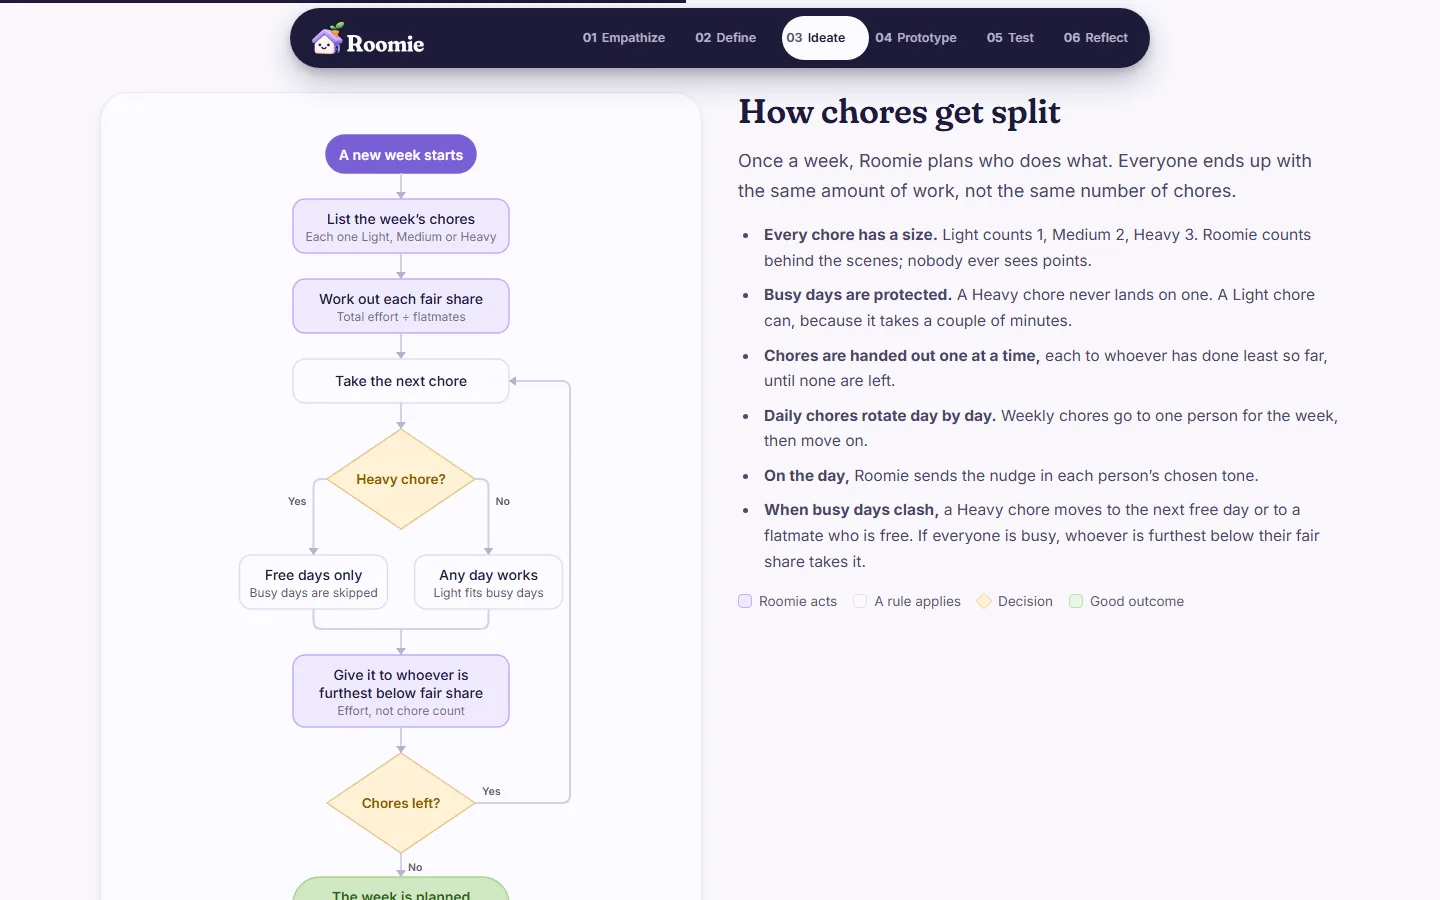
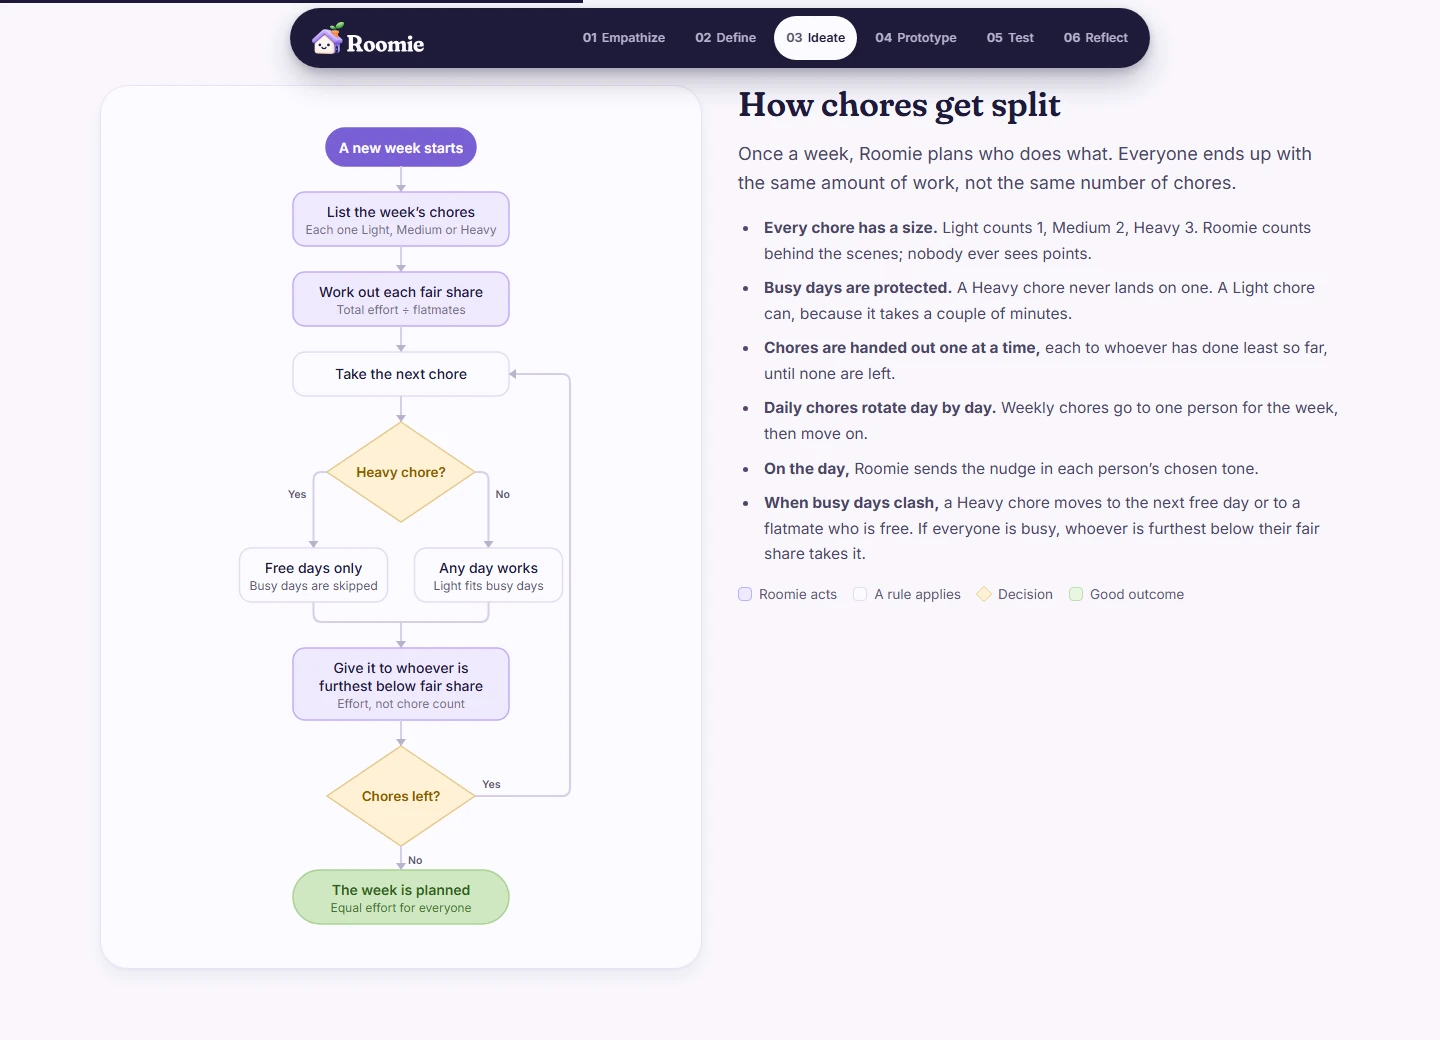
chore: move the website to meetroomie.vercel.app, retake the rules screenshot
The site's address was roomie-site-sigma because roomie-site.vercel.app
belongs to someone else. meetroomie.vercel.app is now assigned to the
project; the old address still resolves. The README flowchart shot had
the nav pill caught mid-slide and the last box cut off.

Changed region(s): [[0.1875, 0.0, 0.9375, 0.6844], [0.1875, 0.4044, 0.375, 1.0], [0.625, 0.6533, 0.8125, 0.6844]]

diff --git a/apps/case-study/src/components/roomie/content/reflect.ts b/apps/case-study/src/components/roomie/content/reflect.ts
@@ -35,7 +35,7 @@ export const reflectHtml = `
     <h3>Beyond the app</h3>
     <p class="muted narrow">A product also has to be found and trusted before anyone opens it, so I took Roomie past the screens.</p>
     <div class="beyond">
-      <a class="card" href="https://roomie-site-sigma.vercel.app/" target="_blank" rel="noopener"><b>Marketing website</b><p>Sells the same three ideas as the app: effort, the shared pool and the nudge. Written for flatmates, not designers.</p><span>See the website →</span></a>
+      <a class="card" href="https://meetroomie.vercel.app/" target="_blank" rel="noopener"><b>Marketing website</b><p>Sells the same three ideas as the app: effort, the shared pool and the nudge. Written for flatmates, not designers.</p><span>See the website →</span></a>
       <a class="card" href="/roomie-brand-guidelines.pdf" target="_blank" rel="noopener"><b>Brand guidelines</b><p>36 pages of logo, colour, type, voice and photography rules, so the app, site and store listing speak with one voice.</p><span>Open the PDF →</span></a>
     </div>
   </div>

diff --git a/apps/site/src/app/layout.tsx b/apps/site/src/app/layout.tsx
@@ -22,7 +22,7 @@ const geist = localFont({
 });
 
 export const metadata: Metadata = {
-  metadataBase: new URL("https://roomie-site-sigma.vercel.app"),
+  metadataBase: new URL("https://meetroomie.vercel.app"),
   title: "Roomie · Make your place feel like home",
   description:
     "Roomie splits chores by effort, works around busy weeks, and does the reminding, so nobody has to play the parent. Coming soon on the App Store and Google Play.",

diff --git a/apps/mobile/src/app/auth/index.tsx b/apps/mobile/src/app/auth/index.tsx
@@ -12,7 +12,7 @@ import { color, layout } from '@/ui/tokens';
 import { AppleMark, Button, GoogleMark, MeshBackground, Sheet, Stagger, Tap, Txt } from '@/ui/v2';
 import { useToast } from '@/ui/toast';
 
-const SITE = 'https://roomie-site-sigma.vercel.app/';
+const SITE = 'https://meetroomie.vercel.app/';
 
 export function Legal() {
   return (

diff --git a/apps/mobile/src/app/privacy.tsx b/apps/mobile/src/app/privacy.tsx
@@ -6,7 +6,7 @@ import { Heading, Page, PlainRow, SettingsCard } from '@/ui/v2';
 
 // the same pages the sign-in screen links to
 const PRIVACY = 'https://roomie-theta.vercel.app/privacy.html';
-const TERMS = 'https://roomie-site-sigma.vercel.app/';
+const TERMS = 'https://meetroomie.vercel.app/';
 
 export default withHousehold(Privacy);
 

diff --git a/apps/case-study/src/components/roomie/footer.tsx b/apps/case-study/src/components/roomie/footer.tsx
@@ -1,7 +1,7 @@
 import { ArrowUpRight } from "lucide-react";
 
 // The Roomie marketing site (roomie-site).
-const ROOMIE_SITE = "https://roomie-site-sigma.vercel.app/";
+const ROOMIE_SITE = "https://meetroomie.vercel.app/";
 
 export function Footer() {
   return (

diff --git a/README.md b/README.md
@@ -5,7 +5,7 @@
 
 **Fair chores and a shared pantry for roommates. No nagging.**
 
-[**Try the app**](https://roomie-app-v2-delta.vercel.app) · [**Website**](https://roomie-site-sigma.vercel.app) · [**Case study**](https://roomie-case-study.vercel.app)
+[**Try the app**](https://roomie-app-v2-delta.vercel.app) · [**Website**](https://meetroomie.vercel.app) · [**Case study**](https://roomie-case-study.vercel.app)
 
 ![Expo](https://img.shields.io/badge/Expo-SDK%2057-1F1B3A?style=flat-square&logo=expo&logoColor=white)
 ![React Native](https://img.shields.io/badge/React%20Native-0.86-1F1B3A?style=flat-square&logo=react&logoColor=61DAFB)
@@ -27,7 +27,7 @@ It is a UX case study and product design project by **Pema Ghising**, taken all 
 | --- | --- | --- |
 | [`apps/mobile`](apps/mobile) | The Roomie app for iPhone and Android (Expo, React Native). Also runs on the web inside a phone frame | [roomie-app-v2-delta.vercel.app](https://roomie-app-v2-delta.vercel.app) · Expo Go |
 | [`supabase`](supabase) | The backend: a Postgres database where each person only sees their own home, a server check on every change, the job that plans the week and sends reminders, and the chore-splitting logic the app shares | Supabase |
-| [`apps/site`](apps/site) | The marketing website: features, a week in a shared flat, the pantry | [roomie-site-sigma.vercel.app](https://roomie-site-sigma.vercel.app) |
+| [`apps/site`](apps/site) | The marketing website: features, a week in a shared flat, the pantry | [meetroomie.vercel.app](https://meetroomie.vercel.app) |
 | [`apps/case-study`](apps/case-study) | The design-thinking case study, from research to reflection | [roomie-case-study.vercel.app](https://roomie-case-study.vercel.app) |
 | [`research`](research) | The written case study, decisions log, evidence map and research sources | |
 

diff --git a/apps/site/README.md b/apps/site/README.md
@@ -5,7 +5,7 @@
 
 ### The Roomie website
 
-**Live:** [roomie-site-sigma.vercel.app](https://roomie-site-sigma.vercel.app)
+**Live:** [meetroomie.vercel.app](https://meetroomie.vercel.app)
 
 </div>
 
